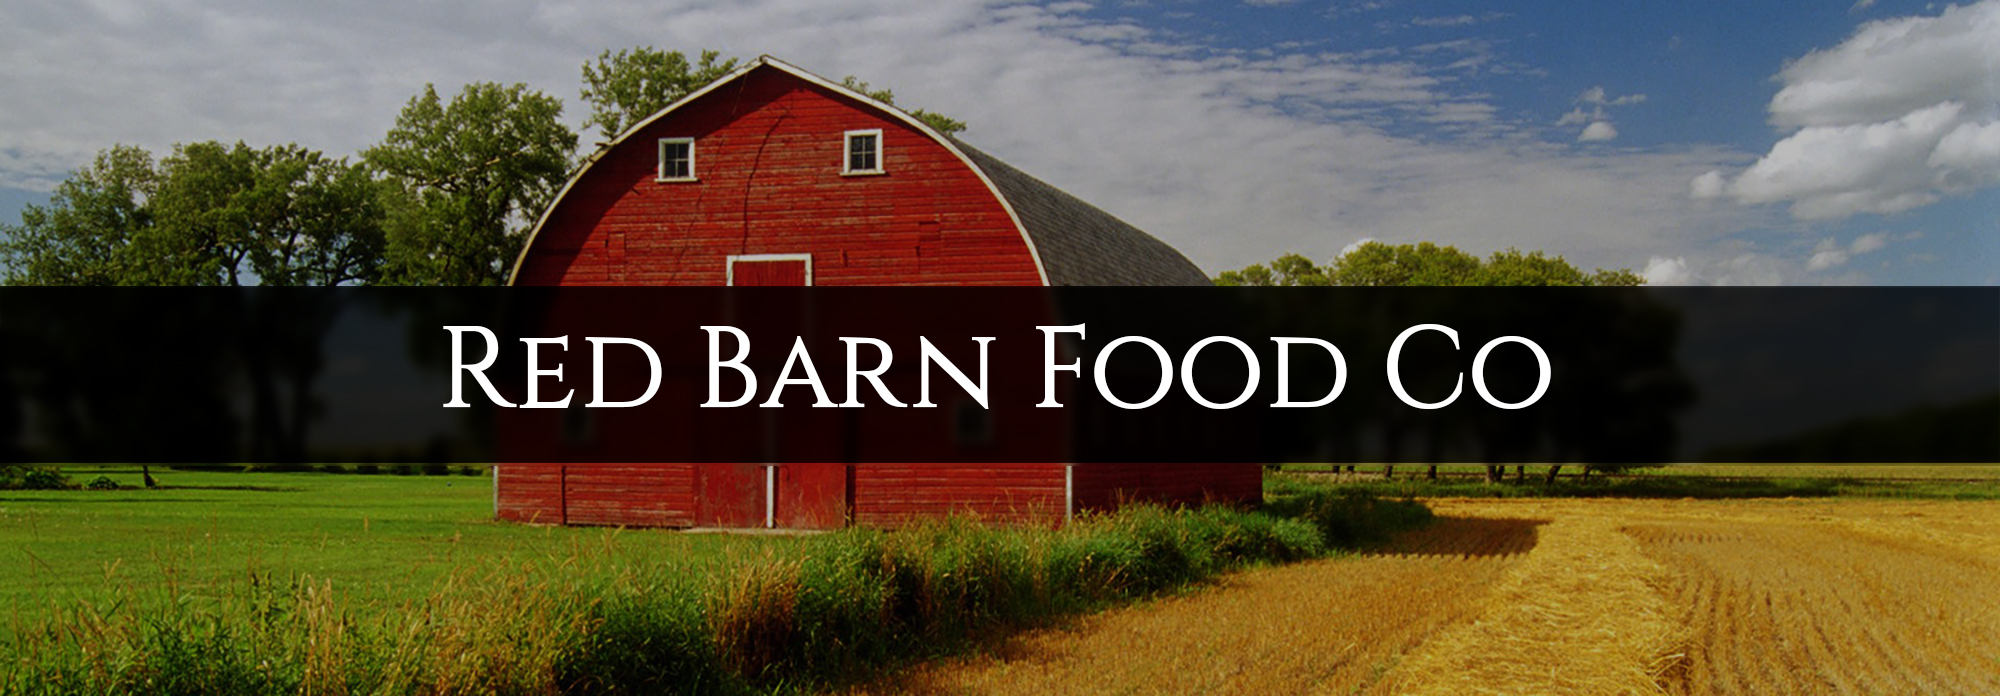
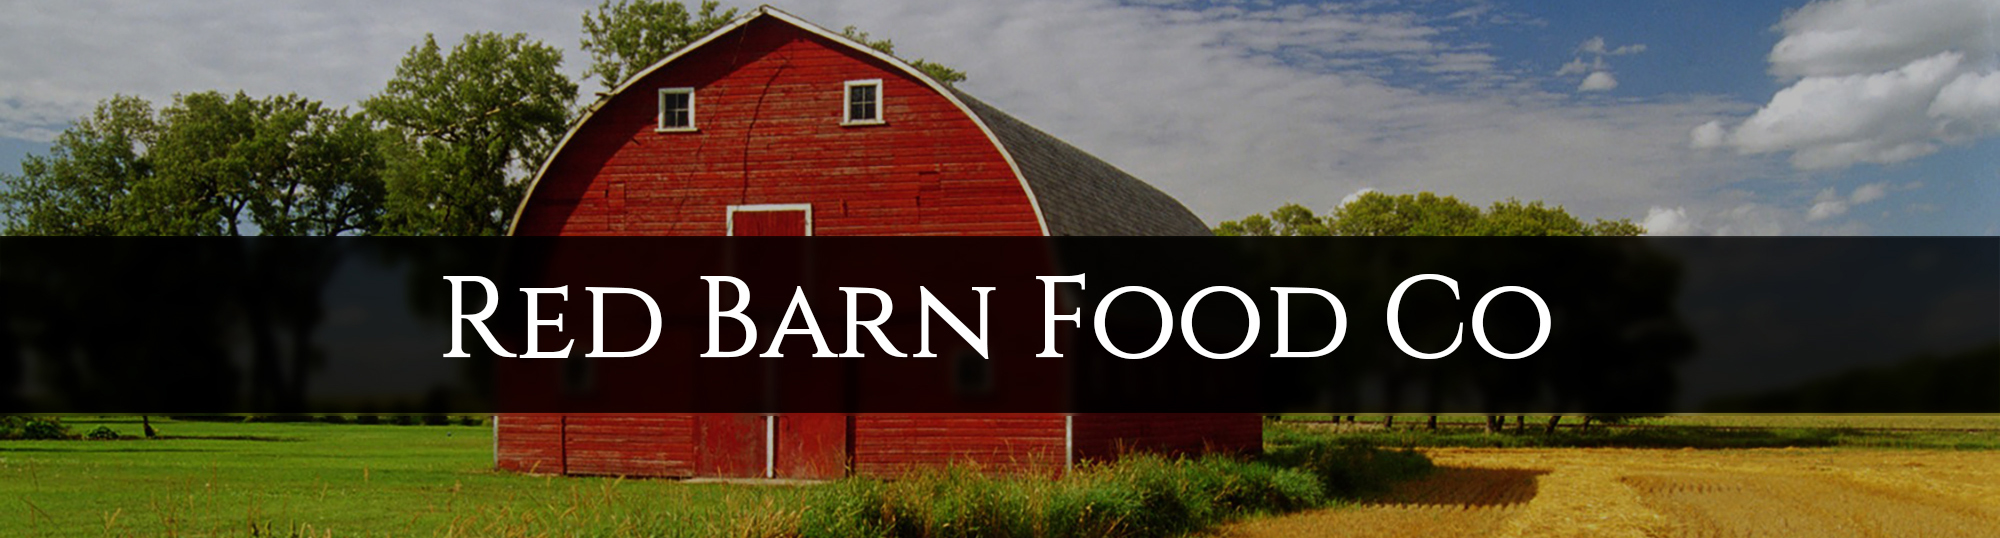
Finished Everything

diff --git a/specials.html b/specials.html
@@ -1,0 +1,102 @@
+<!DOCTYPE html>
+<html>
+<head>
+  <title>
+    Red Barn Food Co
+  </title>
+
+  <link rel="stylesheet" href="https://maxcdn.bootstrapcdn.com/bootstrap/3.3.7/css/bootstrap.min.css" integrity="sha384-BVYiiSIFeK1dGmJRAkycuHAHRg32OmUcww7on3RYdg4Va+PmSTsz/K68vbdEjh4u" crossorigin="anonymous">
+  <link href="https://fonts.googleapis.com/css?family=Amatic+SC|Open+Sans+Condensed:300" rel="stylesheet">
+</head>
+<body>
+<link href="css/style.css" rel="stylesheet">
+<!-- overwrites bootstrap default-->
+
+<div class="img-container">yo</div><!-- IMAGE CONTAINER -->
+
+  <!--NAVBAR -->
+  <ul class="nav nav-tabs nav-justified">
+  <li role="presentation"><a href="index.html">HOME</a></li>
+  <li role="presentation"><a href="about.html">ABOUT</a></li>
+  <li role="presentation"><a href="menu.html">MENU</a></li>
+  <li role="presentation"><a href="specials.html">SPECIALS</a></li>
+
+</ul>
+<!-- END OF NAVBAR -->
+
+
+
+<!--About US-->
+  <div class="container">
+    <div class="row row-centered">
+      <div class="col-lg-12 text-center col-centered topspacing">
+        <div class="font">
+          <h1>DAILY SPECIALS</h1>
+          <p> Here at Red Barn Food Co we're here to serve you </p>
+    </div>
+      </div>
+        </div>
+          </div>
+<!--End About US-->
+
+<!--Random Pic and quote-->
+  <div class="container">
+    <div class="row row-centered">
+      <div class="font">
+        <div class="col-md-6 text-center col-centered spacing">
+          <img src="images/RedBarnFoodCoHappy.jpg" alt="Lamb" height="250" width="500">
+        </div>
+        <div class="col-md-6 text-center col-centered">
+            <p>Nunc ultrices, sapien non pretium blandit, arcu lacus sollicitudin dolor, eget ullamcorper ligula risus eget enim. Ut rutrum auctor mi a laoreet. Sed at fermentum erat. Aenean euismod urna venenatis ultricies ornare. Mauris auctor semper ante, in semper metus eleifend ac.
+            </p>
+        </div>
+        </div>
+      </div>
+      </div>
+<!--end pic and quote-->
+<div class="h-divider">
+</div>
+
+<!--Specials List-->
+  <div class="container">
+    <div class="row row-centered">
+      <div class="font">
+        <div class="col-md-3 text-center col-centered spacing">
+          <img src="images/lunch.jpg" alt="Lunch Specials" height="175" width="250">
+          <h1>LUNCH SPECIALS</h1>
+          <p> Our Lunch Specials are as follows:<br><br>
+MON: ajsdlkfajs<br>
+TUES: adklfjaskld<br>
+WEDS: akldfjaskldjf'<br>
+THURS: khadsflj'dakl<br>
+FRI: aklsjdflaknldsa<br>
+SAT: jaksldfjalka<br>
+SUN: jak;dsfjas; </p>
+        </div>
+        <div class="col-md-3 text-center col-centered">
+          <img src="images/REDBARNdinner.jpeg" alt="Dinner Specials" height="175" width="250">
+          <h1>DINNER SPECIALS</h1>
+          <p> Our Lunch Specials are as follows:<br><br>
+MON: ajsdlkfajs<br>
+TUES: adklfjaskld<br>
+WEDS: akldfjaskldjf'<br>
+THURS: khadsflj'dakl<br>
+FRI: aklsjdflaknldsa<br>
+SAT: jaksldfjalka<br>
+SUN: jak;dsfjas; </p>
+        </div>
+        <div class="col-md-3 text-center col-centered">
+          <img src="images/RedBarnDrink.jpg" alt="Drink Specials" height="175" width="250">
+          <h1>DRINK SPECIALS</h1>
+          <p> Our Lunch Specials are as follows:<br><br>
+MON: ajsdlkfajs<br>
+TUES: adklfjaskld<br>
+WEDS: akldfjaskldjf'<br>
+THURS: khadsflj'dakl<br>
+FRI: aklsjdflaknldsa<br>
+SAT: jaksldfjalka<br>
+SUN: jak;dsfjas; </p>
+        </div>
+        </div>
+      </div>
+      </div>

diff --git a/index.html b/index.html
@@ -32,7 +32,7 @@
 
   <div class="container">
     <div class="row row-centered">
-      <div class="col-md-8 text-center col-centered">
+      <div class="col-md-8 text-center col-centered topspacing">
         <div class="font spacing">
           <h1>From Farm To Table</h1>
        <p>Nunc ultrices, sapien non pretium blandit, arcu lacus sollicitudin dolor, eget ullamcorper ligula risus eget enim. Ut rutrum auctor mi a laoreet. Sed at fermentum erat. Vestibulum sit amet fringilla tortor, quis viverra risus. In pulvinar felis eu dui elementum varius. Aliquam accumsan risus quam, a consectetur est porta eget. Pellentesque rutrum neque dolor, ut egestas enim faucibus eu. In hac habitasse platea dictumst. Quisque non ante mollis, aliquet lacus a, elementum tellus. Aenean euismod urna venenatis ultricies ornare. Mauris auctor semper ante, in semper metus eleifend ac.

diff --git a/css/style.css b/css/style.css
@@ -15,7 +15,7 @@
  }
 
  .img-container{
-   min-height: 695px;
+   min-height: 535px;
    background-image: url("../images/redbarnfoodcowithoutnav.jpg");
    background-repeat: no-repeat;
    background-size: 1500 695;
@@ -42,10 +42,18 @@
 
 
 .spacing {
-  padding-top: 40px;
-  padding-bottom: 120px;
+  padding-bottom: 40px;
 }
 
-.rowspacing {
-  padding-bottom: 40px;
+.topspacing {
+  padding-top: 20px
+}
+
+.h-divider{
+ margin-top:5px;
+ margin-bottom:5px;
+ height:1px;
+ width:100%;
+ border-top:1px solid gray;
+ padding-bottom:40px
 }

diff --git a/about.html b/about.html
@@ -32,7 +32,7 @@
 <!--About US-->
   <div class="container">
     <div class="row row-centered">
-      <div class="col-lg-12 text-center col-centered">
+      <div class="col-lg-12 text-center col-centered topspacing">
         <div class="font">
           <h1>ABOUT US</h1>
     </div>

diff --git a/menu.html b/menu.html
@@ -33,7 +33,7 @@
 <!--About US-->
   <div class="container">
     <div class="row row-centered">
-      <div class="col-lg-12 text-center col-centered">
+      <div class="col-lg-12 text-center col-centered topspacing">
         <div class="font">
           <h1>ABOUT US</h1>
     </div>
